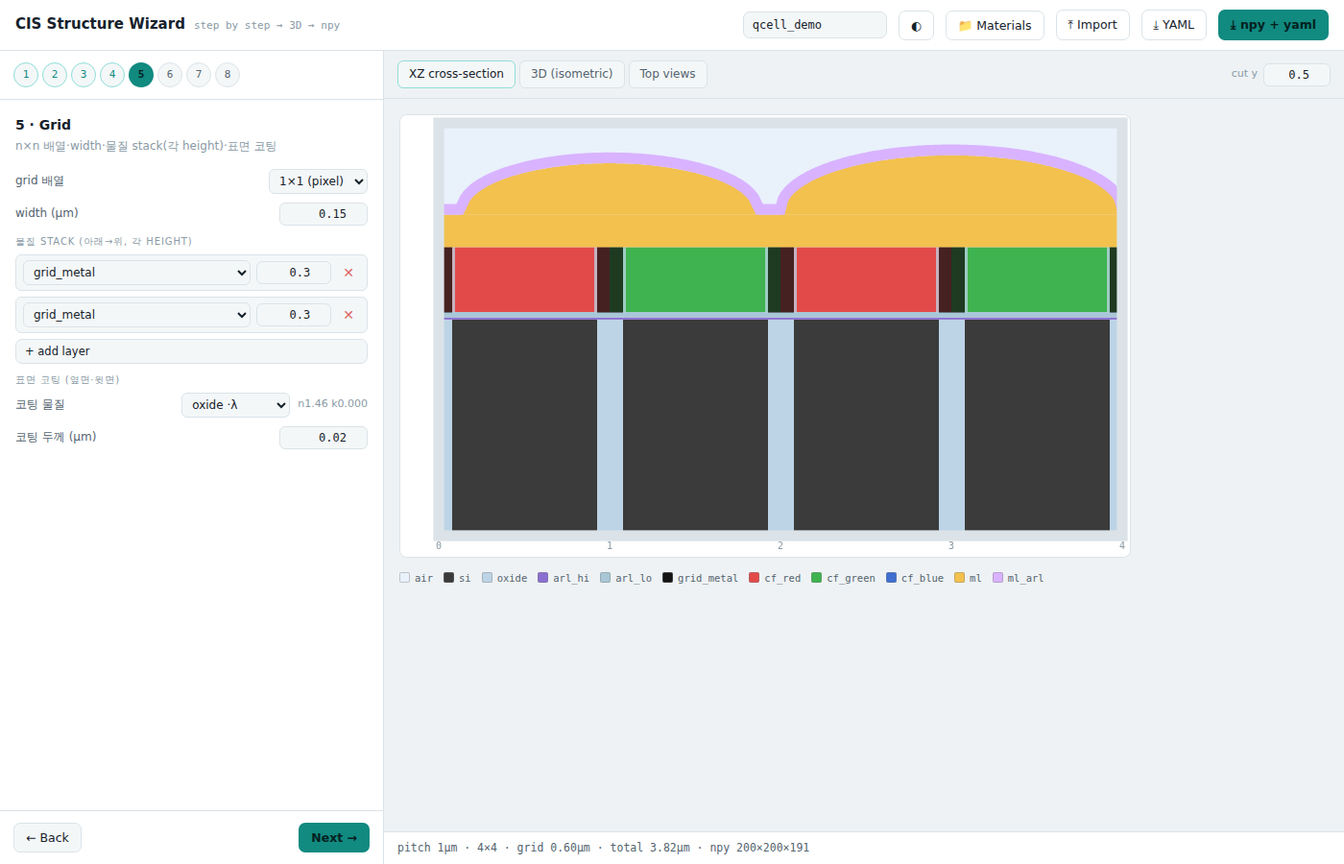
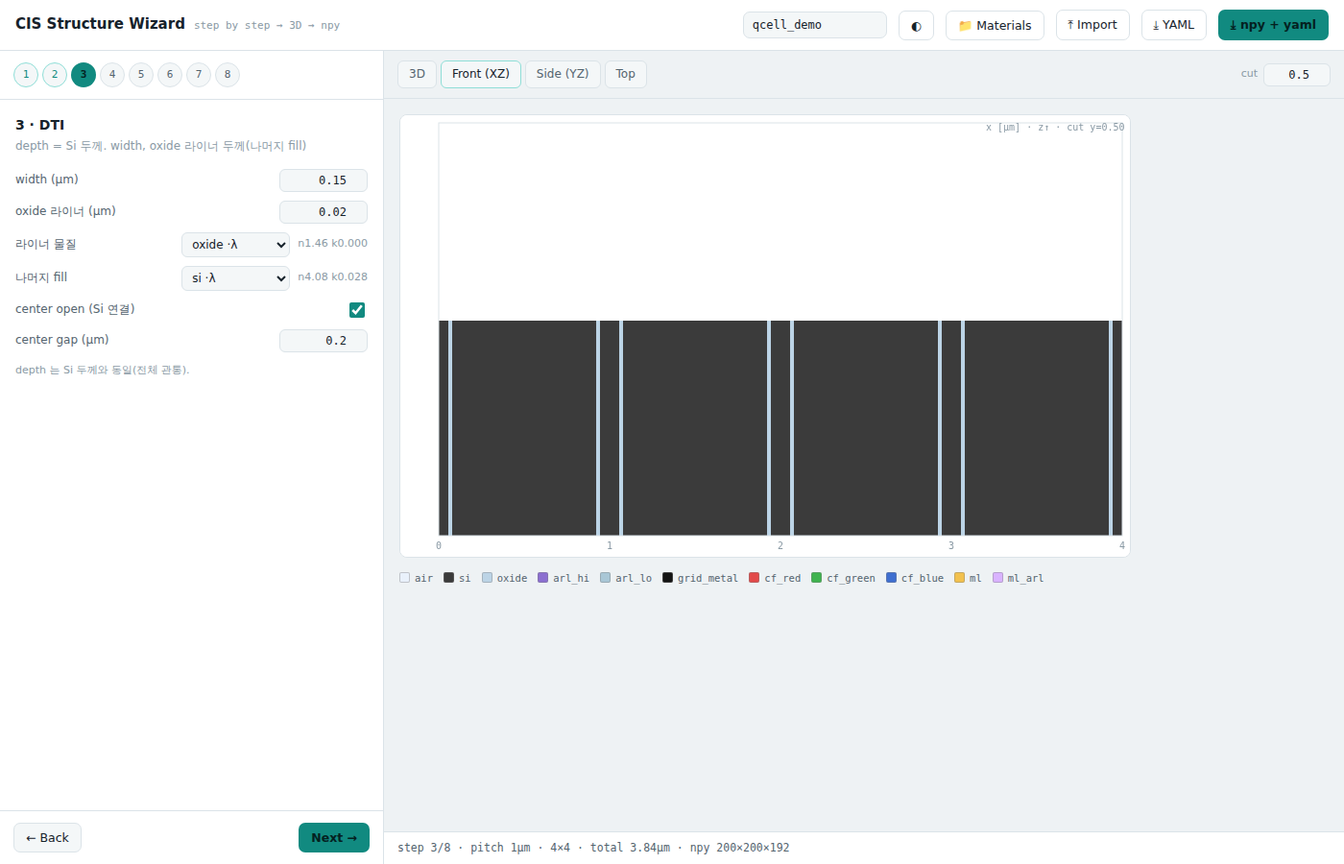
Wizard fixes: debounce typing, step-progressive 3D/front/side/top, DTI liner, grid coat toggle(side+top), CF planarization, open ML editor directly
- #1 renderViews 를 rAF 디바운스 -> 타이핑 렉 제거.
- #2 3D/Front(XZ)/Side(YZ)/Top 뷰, 현재 step 까지 쌓인 층만 표시(matAt upto).
- #3 DTI oxide 라이너 가시화(fill 기본 si) + 3뷰 반영, ol<=width/2 clamp.
- #4 grid 코팅 on/off 체크박스, 표면=옆면+윗면(gridAt zabs).
- #5 CF 컬러별 두께 상이 시 delta 를 ML 물질로 평탄화 채움.
- #6 ml_shapes.json import 대신 ML shape editor 새 창 열기 + Export 시
  postMessage 로 위저드에 자동 반영.

Claude-Session: https://claude.ai/code/session_01TWsubYhc5KeSwgcdPsEJZM

diff --git a/cis_rcwa/editors/structure_wizard.html b/cis_rcwa/editors/structure_wizard.html
@@ -76,11 +76,12 @@
   </aside>
   <div class="stage">
     <div class="viewtabs">
-      <span class="vtab on" data-v="xz">XZ cross-section</span>
-      <span class="vtab" data-v="iso">3D (isometric)</span>
-      <span class="vtab" data-v="top">Top views</span>
+      <span class="vtab on" data-v="iso">3D</span>
+      <span class="vtab" data-v="front">Front (XZ)</span>
+      <span class="vtab" data-v="side">Side (YZ)</span>
+      <span class="vtab" data-v="top">Top</span>
       <div class="spacer"></div>
-      <label class="hint" style="display:flex;gap:6px;align-items:center">cut y <input type="number" id="cutY" step="0.05" value="0.5" style="width:70px"></label>
+      <label class="hint" style="display:flex;gap:6px;align-items:center">cut <input type="number" id="cutY" step="0.05" value="0.5" style="width:70px"></label>
     </div>
     <div class="viewwrap" id="viewWrap"></div>
     <div class="statusbar" id="status"></div>
@@ -103,16 +104,16 @@ const DEFAULT = {
     grid_metal:{n:0.4,k:3.4}, cf_red:{n:1.65,k:0.02}, cf_green:{n:1.65,k:0.02}, cf_blue:{n:1.65,k:0.02}, ml:{n:1.6,k:0}, ml_arl:{n:1.25,k:0} },
   stack:{
     si:{ material:"si", thickness_um:2.0 },
-    dti:{ width_um:0.15, oxide_liner_um:0.02, liner:"oxide", fill:"oxide", center_open:true, center_gap_um:0.20 },  // depth = si.thickness
+    dti:{ width_um:0.15, oxide_liner_um:0.02, liner:"oxide", fill:"si", center_open:true, center_gap_um:0.20 },  // depth = si.thickness
     barl:[ {material:"arl_hi",thickness_um:0.02}, {material:"arl_lo",thickness_um:0.05} ],
-    grid:{ pitch:1, width_um:0.15, coat_material:"oxide", coat_um:0.02, stack:[ {material:"grid_metal",height_um:0.30}, {material:"grid_metal",height_um:0.30} ] },
+    grid:{ pitch:1, width_um:0.15, coat_on:true, coat_material:"oxide", coat_um:0.02, stack:[ {material:"grid_metal",height_um:0.30}, {material:"grid_metal",height_um:0.30} ] },
     cf:{ R:{material:"cf_red",thickness_um:0.60}, G:{material:"cf_green",thickness_um:0.60}, B:{material:"cf_blue",thickness_um:0.60} },
     ml:{ material:"ml", planar_um:0.30, sag_height_um:0.55,
          quads:[[{shape:"2x2"},{shape:"2x1",orient:"h"}],[{shape:"2x1",orient:"v"},{shape:"1x1"}]], deformations:{} },
     arl_top:{ material:"ml_arl", thickness_um:0.10 },
   }
 };
-let refLambda=0.55, folderLib={}, curStep=0, viewMode="xz";
+let refLambda=0.55, folderLib={}, curStep=0, viewMode="iso";
 let S=(function(){ try{const j=localStorage.getItem("cis_wizard_v1"); if(j){const d=JSON.parse(j);
   if(d.refLambda)refLambda=d.refLambda; if(d.folderLib)folderLib=d.folderLib; if(d.S)return d.S;} }catch(e){} return structuredClone(DEFAULT); })();
 function save(){ try{localStorage.setItem("cis_wizard_v1",JSON.stringify({S,refLambda,folderLib}));}catch(e){} }
@@ -131,19 +132,23 @@ function css(v){return getComputedStyle(document.documentElement).getPropertyVal
 // ============================ 구조 지오메트리 (xy 패턴 함수) ============================
 const P=()=>+S.grid.pixel_pitch_um, NP=()=>+S.grid.n_pixels;
 function gridStackH(){ return S.stack.grid.stack.reduce((a,s)=>a+ +s.height_um,0); }
+function gridCoat(){ const g=S.stack.grid; return (g.coat_on!==false)?+(g.coat_um||0):0; }
+function gridTotalH(){ return gridStackH()+gridCoat(); }   // 코팅 top cap 포함
 function cfMaxH(){ return Math.max(S.stack.cf.R.thickness_um,S.stack.cf.G.thickness_um,S.stack.cf.B.thickness_um); }
 function colorRole(c){ return {R:"cf_red",G:"cf_green",B:"cf_blue"}[c]; }
-function bandH(){ return Math.max(cfMaxH(), gridStackH()); }
-// DTI: 물질명|null(Si)  (center 안 뚫음=Si, 트렌치=oxide 라이너 + fill)
-function dtiAt(x,y){ const p=P(),st=S.stack.dti,ol=+st.oxide_liner_um,W=+st.width_um,ox=st.liner||"oxide",fl=st.fill||"oxide";
+function bandH(){ return Math.max(cfMaxH(), gridTotalH()); }
+// DTI: 물질명|null(Si)  (center 안 뚫음=Si, 트렌치=oxide 라이너 + fill). ol <= W/2
+function dtiAt(x,y){ const p=P(),st=S.stack.dti,W=+st.width_um,ol=Math.min(+st.oxide_liner_um,W/2),ox=st.liner||"oxide",fl=st.fill||"si";
   if(st.center_open){ const gh=(+st.center_gap_um||0)/2; const od=v=>{const i=Math.round(v/p);return(i%2!==0)?i:(v>i*p?i+1:i-1);};
     if(Math.abs(x-od(x)*p)<gh && Math.abs(y-od(y)*p)<gh) return null; }
   const d=Math.min(Math.abs(x-Math.round(x/p)*p),Math.abs(y-Math.round(y/p)*p));
   if(d>=W/2) return null; return (d>W/2-ol)?ox:fl; }   // 사이드월 라이너 / 나머지 fill
-// Grid: (x,zf 0..1) -> 물질명|null(CF)
-function gridAt(x,zf){ const g=S.stack.grid,p=P(),per=(g.pitch||1)*p,W=+g.width_um,cw=+(g.coat_um||0);
-  const d=Math.abs(x-Math.round(x/per)*per); if(d>W/2+cw)return null; if(d>W/2)return g.coat_material||"oxide";
-  const H=gridStackH(); let zz=zf*H,acc=0; for(const s of g.stack){acc+=+s.height_um; if(zz<=acc+1e-9)return s.material;} return g.stack.length?g.stack[g.stack.length-1].material:"grid_metal"; }
+// Grid: (x, zabs[um 0..gridTotalH]) -> 물질명|null(CF). 코팅=옆면+윗면 표면
+function gridAt(x,zabs){ const g=S.stack.grid,p=P(),per=(g.pitch||1)*p,W=+g.width_um,cw=gridCoat(),H=gridStackH();
+  const d=Math.abs(x-Math.round(x/per)*per);
+  if(d>W/2+cw || zabs>H+cw) return null;
+  if(cw>0 && (d>W/2 || zabs>H)) return g.coat_material||"oxide";   // 표면 코팅 (옆+위)
+  let acc=0; for(const s of g.stack){acc+=+s.height_um; if(zabs<=acc+1e-9)return s.material;} return g.stack.length?g.stack[g.stack.length-1].material:"grid_metal"; }
 // ML sag(x,y)
 function mlSag(x,y){ const p=P(),h=+S.stack.ml.sag_height_um,q=S.stack.ml.quads,def=S.stack.ml.deformations||{}; let sag=0;
   function bt(id,ang){ const b=def[id]&&def[id].b_theta; if(!b)return 1; const n=b.length; let a=((ang%(2*Math.PI))+2*Math.PI)%(2*Math.PI); let f=a/(2*Math.PI)*n,i0=Math.floor(f)%n,t=f-Math.floor(f); return b[i0]*(1-t)+b[(i0+1)%n]*t; }
@@ -156,33 +161,31 @@ function mlSag(x,y){ const p=P(),h=+S.stack.ml.sag_height_um,q=S.stack.ml.quads,
 function totalH(){ const s=S.stack; return +s.si.thickness_um + s.barl.reduce((a,l)=>a+ +l.thickness_um,0) + bandH() + +s.ml.planar_um + +s.ml.sag_height_um + +s.arl_top.thickness_um + +S.grid.air_margin_um; }
 
 // ============================ npy voxel 빌드 ============================
+// 임의 점 (x,y,zc[um]) 의 물질 — upto: 표시할 최대 단계(=curStep, 99=전체)
+function matAt(x,y,zc,upto){ if(upto==null)upto=99; const s=S.stack,p=P(),np=NP();
+  const zSi=+s.si.thickness_um, barlH=s.barl.reduce((a,l)=>a+ +l.thickness_um,0), band=bandH();
+  const barlTop=zSi+barlH, cfTop=barlTop+band, planarTop=cfTop+ +s.ml.planar_um;
+  if(zc<zSi){ if(upto<1)return "air"; if(upto<2)return s.si.material; const m=dtiAt(x,y); return m||s.si.material; }
+  if(zc<barlTop){ if(upto<3)return "air"; let zz=zc-zSi,acc=0; for(const l of s.barl){acc+=+l.thickness_um; if(zz<=acc)return l.material;} return s.barl.length?s.barl[s.barl.length-1].material:"air"; }
+  if(zc<cfTop){ const zabs=zc-barlTop;
+    const gm=(upto>=4)?gridAt(x,y,zabs):null; if(gm)return gm;
+    if(upto>=5){ const pr=Math.min(np-1,Math.floor(y/p)),pc=Math.min(np-1,Math.floor(x/p)),col=colorRole(S.bayer[pr][pc]);
+      const cth=s.cf[{cf_red:"R",cf_green:"G",cf_blue:"B"}[col]].thickness_um; if(zabs<=cth)return col; }
+    if(upto>=6)return s.ml.material;    // 평탄화: CF 위 delta 를 ML 물질로 채움
+    return "air"; }
+  if(zc<planarTop){ return upto>=6? s.ml.material : "air"; }
+  if(upto<6)return "air"; const surf=planarTop+mlSag(x,y); if(zc<=surf)return s.ml.material;
+  if(upto>=7){ const arlT=+s.arl_top.thickness_um; if(zc<=surf+arlT)return s.arl_top.material; }
+  return "air"; }
+
 function buildVoxels(){
-  const p=P(),np=NP(),span=p*np,dxy=+S.grid.dxy_um,dz=+S.grid.dz_um,s=S.stack;
-  const nx=Math.round(span/dxy),ny=Math.round(span/dxy);
-  const barlH=s.barl.reduce((a,l)=>a+ +l.thickness_um,0), band=bandH();
-  const Ht=totalH(), nz=Math.round(Ht/dz);
-  // 물질 id 맵
+  const p=P(),np=NP(),span=p*np,dxy=+S.grid.dxy_um,dz=+S.grid.dz_um;
+  const nx=Math.round(span/dxy),ny=Math.round(span/dxy),nz=Math.round(totalH()/dz);
   const names=["air"]; const idOf=n=>{ let i=names.indexOf(n); if(i<0){i=names.length;names.push(n);} return i; };
-  const data=new Uint8Array(nz*ny*nx);   // z-major: [z][y][x]
-  const idx=(z,y,x)=>(z*ny+y)*nx+x;
-  // z 밴드 경계(아래->위)
-  const zSi=+s.si.thickness_um;
-  const barlTop=zSi+barlH, cfTop=barlTop+band, planarTop=cfTop+ +s.ml.planar_um, mlTop=planarTop+ +s.ml.sag_height_um;
-  const cfRowMat=(r,c)=>colorRole(S.bayer[r][c]);
-  const airId=idOf("air");
+  const data=new Uint8Array(nz*ny*nx); const idx=(z,y,x)=>(z*ny+y)*nx+x;
   for(let zi=0;zi<nz;zi++){ const zc=(zi+0.5)*dz;
     for(let yi=0;yi<ny;yi++){ const y=(yi+0.5)*dxy;
-      for(let xi=0;xi<nx;xi++){ const x=(xi+0.5)*dxy; let mat="air";
-        if(zc<zSi){ const m=dtiAt(x,y); mat = m? m : s.si.material; }              // Si + DTI(full depth)
-        else if(zc<barlTop){ let zz=zc-zSi,acc=0; mat=s.barl[0]?s.barl[0].material:"oxide"; for(const l of s.barl){acc+=+l.thickness_um; if(zz<=acc){mat=l.material;break;}} }
-        else if(zc<cfTop){ const zf=(zc-barlTop); const pr=Math.min(np-1,Math.floor(y/p)),pc=Math.min(np-1,Math.floor(x/p));
-            const gm=gridAt(x, zf/gridStackH()); if(gm && zf<=gridStackH()+ (S.stack.grid.coat_um||0)) mat=gm;
-            else { const col=cfRowMat(pr,pc), cth=S.stack.cf[{cf_red:"R",cf_green:"G",cf_blue:"B"}[col]].thickness_um; mat = (zf<=cth)? col : "air"; } }
-        else if(zc<planarTop){ mat=s.ml.material; }                                 // ML planar
-        else { const surf=planarTop + mlSag(x,y); const arlT=+s.arl_top.thickness_um;
-            if(zc<=surf) mat=s.ml.material; else if(zc<=surf+arlT) mat=s.arl_top.material; else mat="air"; }
-        data[idx(zi,yi,xi)]=idOf(mat);
-      } } }
+      for(let xi=0;xi<nx;xi++){ data[idx(zi,yi,xi)]=idOf(matAt((xi+0.5)*dxy,y,zc,99)); } } }
   return {data,shape:[nz,ny,nx],names,dxy,dz};
 }
 function npyU8(arr,shape){ const hdr=`{'descr': '|u1', 'fortran_order': False, 'shape': (${shape.join(', ')}), }`;
@@ -192,52 +195,41 @@ function npyU8(arr,shape){ const hdr=`{'descr': '|u1', 'fortran_order': False, '
 
 // ============================ 렌더 ============================
 function el(id){return document.getElementById(id);}
-function renderViews(){
-  const w=el("viewWrap"); w.innerHTML="";
-  if(viewMode==="xz"){ const c=mkCanvas(760,460); w.appendChild(c.wrap); drawXZ(c.cv);
+let _raf=null;
+function renderViews(){ if(_raf)cancelAnimationFrame(_raf); _raf=requestAnimationFrame(_renderViews); }  // 디바운스(타이핑 렉 방지)
+function _renderViews(){ _raf=null;
+  const w=el("viewWrap"); w.innerHTML=""; w.style.flexDirection="column"; w.style.flexWrap="nowrap";
+  if(viewMode==="front"||viewMode==="side"){ const c=mkCanvas(760,460); w.appendChild(c.wrap); drawSection(c.cv, viewMode==="front"?"x":"y");
     const lg=document.createElement("div"); lg.className="legend"; usedMats().forEach(n=>{const s=document.createElement("span"); s.innerHTML=`<i style="background:${matColor(n)}"></i>${n}`; lg.appendChild(s);}); w.appendChild(lg); }
   else if(viewMode==="iso"){ const c=mkCanvas(760,520); w.appendChild(c.wrap); drawISO(c.cv); }
-  else { ["DTI","CF+Grid","ML"].forEach((t,i)=>{ const box=document.createElement("div"); const cap=document.createElement("div"); cap.className="hint"; cap.textContent=t; const c=mkCanvas(240,240); box.appendChild(cap); box.appendChild(c.wrap); w.appendChild(box); drawTop(c.cv,i); }); w.style.flexDirection="row"; w.style.flexWrap="wrap"; }
-  if(viewMode!=="top") w.style.flexDirection="column";
-  el("status").innerHTML=`pitch ${P()}µm · ${NP()}×${NP()} · grid ${gridStackH().toFixed(2)}µm · total ${totalH().toFixed(2)}µm · npy ${Math.round(P()*NP()/S.grid.dxy_um)}×${Math.round(P()*NP()/S.grid.dxy_um)}×${Math.round(totalH()/S.grid.dz_um)}`;
+  else { w.style.flexDirection="row"; w.style.flexWrap="wrap"; ["DTI","CF+Grid","ML"].forEach((t,i)=>{ const box=document.createElement("div"); const cap=document.createElement("div"); cap.className="hint"; cap.textContent=t; const c=mkCanvas(240,240); box.appendChild(cap); box.appendChild(c.wrap); w.appendChild(box); drawTop(c.cv,i); }); }
+  const nx=Math.round(P()*NP()/S.grid.dxy_um);
+  el("status").innerHTML=`step ${curStep+1}/8 · pitch ${P()}µm · ${NP()}×${NP()} · total ${totalH().toFixed(2)}µm · npy ${nx}×${nx}×${Math.round(totalH()/S.grid.dz_um)}`;
   save();
 }
 function mkCanvas(w,h){ const wrap=document.createElement("div"); const cv=document.createElement("canvas"); cv.width=w; cv.height=h; wrap.appendChild(cv); return {wrap,cv}; }
 function usedMats(){ const u=new Set(["air",S.stack.si.material,S.stack.dti.liner,S.stack.dti.fill]); S.stack.barl.forEach(l=>u.add(l.material)); u.add(S.stack.grid.coat_material); S.stack.grid.stack.forEach(l=>u.add(l.material)); ["R","G","B"].forEach(c=>u.add(S.stack.cf[c].material)); u.add(S.stack.ml.material); u.add(S.stack.arl_top.material); return [...u]; }
 
-function drawXZ(cv){ const ctx=cv.getContext("2d"),W=cv.width,H=cv.height; ctx.clearRect(0,0,W,H); ctx.fillStyle=css("--panel"); ctx.fillRect(0,0,W,H);
-  const p=P(),np=NP(),span=p*np,s=S.stack; const Ht=totalH(); const padL=40,padB=22,padT=8,padR=8;
-  const sx=(W-padL-padR)/span, sz=(H-padB-padT)/Ht; const X=x=>padL+x*sx, Z=z=>H-padB-z*sz; const cutY=+el("cutY").value;
-  function rect(x0,x1,z0,z1,col){ctx.fillStyle=col; ctx.fillRect(X(x0),Z(z1),(x1-x0)*sx,(z1-z0)*sz);}
-  rect(0,span,0,Ht,matColor("air"));
-  let z=0; const zSi=+s.si.thickness_um;
-  // Si + DTI(full depth) rasterize
-  rect(0,span,0,zSi,matColor(s.si.material));
-  { const wpx=Math.round(W-padL-padR); for(let px=0;px<wpx;px++){ const x=px/sx; const m=dtiAt(x,cutY); if(!m)continue; ctx.fillStyle=matColor(m); ctx.fillRect(padL+px,Z(zSi),1,zSi*sz);} }
-  z=zSi;
-  for(const l of s.barl){ rect(0,span,z,z+ +l.thickness_um,matColor(l.material)); z+=+l.thickness_um; }
-  // CF + grid
-  const band=bandH(), row=Math.max(0,Math.min(np-1,Math.floor(cutY/p)));
-  for(let c=0;c<np;c++){ const col=S.bayer[row][c],role=colorRole(col),cth=s.cf[{cf_red:"R",cf_green:"G",cf_blue:"B"}[role]].thickness_um; rect(c*p,(c+1)*p,z,z+cth,matColor(role)); }
-  { const gt=gridStackH(),wpx=Math.round(W-padL-padR),hpx=Math.max(1,Math.round(gt*sz)); for(let px=0;px<wpx;px++){ const x=px/sx; for(let pz=0;pz<hpx;pz++){ const zf=1-(pz+0.5)/hpx; const m=gridAt(x,zf); if(!m)continue; ctx.fillStyle=matColor(m); ctx.fillRect(padL+px,Z(z+gt)+pz,1,1);} } }
-  z+=band;
-  rect(0,span,z,z+ +s.ml.planar_um,matColor(s.ml.material)); const planarTop=z+ +s.ml.planar_um; z=planarTop;
-  // ML dome
-  ctx.fillStyle=matColor(s.ml.material); ctx.beginPath(); const N=260;
-  for(let i=0;i<=N;i++){ const x=span*i/N,top=planarTop+mlSag(x,cutY); i?ctx.lineTo(X(x),Z(top)):ctx.moveTo(X(x),Z(planarTop)); } ctx.lineTo(X(span),Z(planarTop)); ctx.closePath(); ctx.fill();
-  // ARL top conformal
-  ctx.strokeStyle=matColor(s.arl_top.material); ctx.lineWidth=Math.max(1,+s.arl_top.thickness_um*sz); ctx.beginPath();
-  for(let i=0;i<=N;i++){ const x=span*i/N,top=planarTop+mlSag(x,cutY)+ +s.arl_top.thickness_um/2; i?ctx.lineTo(X(x),Z(top)):ctx.moveTo(X(x),Z(top)); } ctx.stroke();
+// 단면 (axis 'x'=front XZ / 'y'=side YZ). matAt 를 rasterize, curStep 까지만.
+function drawSection(cv, axis){ const ctx=cv.getContext("2d"),W=cv.width,H=cv.height; ctx.clearRect(0,0,W,H); ctx.fillStyle=css("--panel"); ctx.fillRect(0,0,W,H);
+  const p=P(),span=p*NP(),Ht=totalH(),padL=40,padB=22,padT=8,padR=8;
+  const sx=(W-padL-padR)/span, sz=(H-padB-padT)/Ht, cut=+el("cutY").value, B=2;   // 2px 블록(성능)
+  const wpx=W-padL-padR, hpx=H-padB-padT;
+  for(let px=0;px<wpx;px+=B){ const u=(px+B/2)/sx;
+    for(let pz=0;pz<hpx;pz+=B){ const zc=(hpx-(pz+B/2))/sz; const x=axis==="x"?u:cut, y=axis==="x"?cut:u;
+      const m=matAt(x,y,zc,curStep); if(m==="air")continue; ctx.fillStyle=matColor(m); ctx.fillRect(padL+px,padT+pz,B,B); } }
   ctx.strokeStyle=css("--line"); ctx.strokeRect(padL,padT,W-padL-padR,H-padB-padT);
-  ctx.fillStyle=css("--ink-faint"); ctx.font="10px "+css("--mono"); for(let x=0;x<=span+1e-6;x+=p)ctx.fillText(x.toFixed(0),X(x)-3,H-8);
+  ctx.fillStyle=css("--ink-faint"); ctx.font="10px "+css("--mono"); for(let t=0;t<=span+1e-6;t+=p)ctx.fillText(t.toFixed(0),padL+t*sx-3,H-8);
+  ctx.fillText((axis==="x"?"x":"y")+" [µm] · z↑ · cut "+(axis==="x"?"y":"x")+"="+cut.toFixed(2),W-150,16);
 }
 function drawTop(cv,which){ const ctx=cv.getContext("2d"),W=cv.width,H=cv.height,p=P(),np=NP(),span=p*np,pad=8; ctx.clearRect(0,0,W,H);
   const sc=Math.min(W-2*pad,H-2*pad)/span,ox=(W-span*sc)/2,oy=(H-span*sc)/2; const X=x=>ox+x*sc,Y=y=>H-oy-y*sc;
+  const need=[2,4,6][which]; if(curStep<need){ ctx.fillStyle=css("--ink-faint"); ctx.font="11px "+css("--mono"); ctx.fillText("(step "+(need+1)+"+)",ox+8,oy+18); ctx.strokeStyle=css("--line"); ctx.strokeRect(ox,oy,span*sc,span*sc); return; }
   if(which===0){ ctx.fillStyle=matColor(S.stack.si.material); ctx.fillRect(ox,oy,span*sc,span*sc); const N=Math.round(span*sc);
     for(let py=0;py<N;py++)for(let px=0;px<N;px++){ const m=dtiAt(px/sc,(N-1-py)/sc); if(!m)continue; ctx.fillStyle=matColor(m); ctx.fillRect(ox+px,oy+py,1,1);} }
   else if(which===1){ for(let r=0;r<np;r++)for(let c=0;c<np;c++){ctx.fillStyle=matColor(colorRole(S.bayer[r][c])); ctx.fillRect(X(c*p)+1,Y((r+1)*p)+1,p*sc-2,p*sc-2);}
-    const g=S.stack.grid,per=(g.pitch||1)*p,wm=+g.width_um,cw=+(g.coat_um||0),w=wm+2*cw,gm=g.stack[0]?g.stack[0].material:"grid_metal";
-    for(let cc=0;cc<=span+1e-6;cc+=per){ ctx.fillStyle=matColor(g.coat_material||"oxide"); ctx.fillRect(X(cc-w/2),oy,w*sc,span*sc); ctx.fillRect(ox,Y(cc+w/2),span*sc,w*sc); ctx.fillStyle=matColor(gm); ctx.fillRect(X(cc-wm/2),oy,wm*sc,span*sc); ctx.fillRect(ox,Y(cc+wm/2),span*sc,wm*sc);} }
+    const g=S.stack.grid,per=(g.pitch||1)*p,wm=+g.width_um,cw=gridCoat(),w=wm+2*cw,gm=g.stack[0]?g.stack[0].material:"grid_metal";
+    for(let cc=0;cc<=span+1e-6;cc+=per){ if(cw>0){ctx.fillStyle=matColor(g.coat_material||"oxide"); ctx.fillRect(X(cc-w/2),oy,w*sc,span*sc); ctx.fillRect(ox,Y(cc+w/2),span*sc,w*sc);} ctx.fillStyle=matColor(gm); ctx.fillRect(X(cc-wm/2),oy,wm*sc,span*sc); ctx.fillRect(ox,Y(cc+wm/2),span*sc,wm*sc);} }
   else { const N=90,h=+S.stack.ml.sag_height_um; for(let i=0;i<N;i++)for(let j=0;j<N;j++){ const sg=mlSag(span*(i+.5)/N,span*(j+.5)/N); if(sg<=0)continue; ctx.fillStyle=`rgba(242,193,78,${0.15+0.85*sg/h})`; ctx.fillRect(X(span*i/N),Y(span*(j+1)/N),span/N*sc+1,span/N*sc+1);} }
   ctx.strokeStyle=css("--line"); ctx.strokeRect(ox,oy,span*sc,span*sc);
 }
@@ -248,13 +240,13 @@ function drawISO(cv){ const ctx=cv.getContext("2d"),W=cv.width,H=cv.height; ctx.
   const ax=0.55, ay=0.30;   // iso axes
   const cx=W*0.36, cy=H*0.62;
   function proj(x,y,z){ return [cx + (x-y)*sc*ax + 0, cy + (x+y)*sc*ay - z*ez]; }
-  // 층 리스트 (아래->위): [z0,z1, topPatternFn|color, sideColor]
+  // 층 리스트 (아래->위) — 현재 step 까지만
   const layers=[];
-  layers.push([0,+s.si.thickness_um,"dti",matColor(s.si.material)]);
-  let z=+s.si.thickness_um; s.barl.forEach(l=>{layers.push([z,z+ +l.thickness_um,matColor(l.material),matColor(l.material)]); z+=+l.thickness_um;});
-  const band=bandH(); layers.push([z,z+band,"cf",matColor("cf_green")]); z+=band;
-  layers.push([z,z+ +s.ml.planar_um,matColor(s.ml.material),matColor(s.ml.material)]); z+=+s.ml.planar_um;
-  layers.push([z,z+ +s.ml.sag_height_um,"ml",matColor(s.ml.material)]);
+  if(curStep>=1) layers.push([0,+s.si.thickness_um,"dti",matColor(s.si.material)]);
+  let z=+s.si.thickness_um; if(curStep>=3) s.barl.forEach(l=>{layers.push([z,z+ +l.thickness_um,matColor(l.material),matColor(l.material)]); z+=+l.thickness_um;}); else z+=s.barl.reduce((a,l)=>a+ +l.thickness_um,0);
+  const band=bandH(); if(curStep>=4){ layers.push([z,z+band,"cf",matColor("cf_green")]); } z+=band;
+  if(curStep>=6){ layers.push([z,z+ +s.ml.planar_um,matColor(s.ml.material),matColor(s.ml.material)]); z+=+s.ml.planar_um;
+    layers.push([z,z+ +s.ml.sag_height_um,"ml",matColor(s.ml.material)]); }
   function box(z0,z1,topFn,side){ const c=[[0,0],[span,0],[span,span],[0,span]];
     // 옆면 2개
     function quad(pa,pb,shade){ ctx.beginPath(); ctx.moveTo(...proj(pa[0],pa[1],z0)); ctx.lineTo(...proj(pb[0],pb[1],z0)); ctx.lineTo(...proj(pb[0],pb[1],z1)); ctx.lineTo(...proj(pa[0],pa[1],z1)); ctx.closePath(); ctx.fillStyle=shade; ctx.fill(); ctx.strokeStyle="rgba(0,0,0,.25)"; ctx.stroke(); }
@@ -298,17 +290,20 @@ const STEPS=[
       h("div",{class:"row"},[h("label",{},["center open (Si 연결)"]),co]), numRow("center gap (µm)",d,"center_gap_um"), h("p",{class:"hint"},["depth 는 Si 두께와 동일(전체 관통)."]) ]; }},
  {t:"4 · BARL stack", d:"전면 다층 AR (개수·물질·두께)", body:()=>[ h("p",{class:"hint"},["아래→위 순서. 각 층 물질(폴더 연동)·두께."]), subEditor(S.stack.barl,[["material","material","mat"],["thickness","thickness_um","num"]]) ]},
  {t:"5 · Grid", d:"n×n 배열·width·물질 stack(각 height)·표면 코팅", body:()=>{ const g=S.stack.grid; const pt=h("select",{}); [["1","1×1 (pixel)"],["2","2×2 (quad)"]].forEach(([v,tx])=>{const o=h("option",{value:v},[tx]); if(String(g.pitch||1)===v)o.selected=true; pt.appendChild(o);}); pt.onchange=()=>{g.pitch=parseInt(pt.value); renderViews();};
-    return [ h("div",{class:"row"},[h("label",{},["grid 배열"]),pt]), numRow("width (µm)",g,"width_um"),
-      h("div",{class:"seclbl"},["물질 stack (아래→위, 각 height)"]), subEditor(g.stack,[["material","material","mat"],["height","height_um","num"]]),
-      h("div",{class:"seclbl"},["표면 코팅 (옆면·윗면)"]), matRow("코팅 물질",g,"coat_material"), numRow("코팅 두께 (µm)",g,"coat_um") ]; }},
+    const cc=h("input",{type:"checkbox"}); cc.checked=g.coat_on!==false; cc.onchange=()=>{g.coat_on=cc.checked; renderStep();};
+    const rows=[ h("div",{class:"row"},[h("label",{},["grid 배열"]),pt]), numRow("width (µm)",g,"width_um"),
+      h("div",{class:"seclbl"},["물질 stack (아래→위, 각 height) · 동일물질 연결"]), subEditor(g.stack,[["material","material","mat"],["height","height_um","num"]]),
+      h("div",{class:"seclbl"},["표면 코팅 (옆면+윗면)"]), h("div",{class:"row"},[h("label",{},["코팅 사용"]),cc]) ];
+    if(g.coat_on!==false){ rows.push(matRow("코팅 물질",g,"coat_material")); rows.push(numRow("코팅 두께 (µm)",g,"coat_um")); }
+    return rows; }},
  {t:"6 · Color Filter", d:"각 컬러별 물질·두께", body:()=>[ h("div",{class:"seclbl"},["Red"]), matRow("R 물질",S.stack.cf.R,"material"), numRow("R 두께 (µm)",S.stack.cf.R,"thickness_um"),
     h("div",{class:"seclbl"},["Green"]), matRow("G 물질",S.stack.cf.G,"material"), numRow("G 두께 (µm)",S.stack.cf.G,"thickness_um"),
     h("div",{class:"seclbl"},["Blue"]), matRow("B 물질",S.stack.cf.B,"material"), numRow("B 두께 (µm)",S.stack.cf.B,"thickness_um") ]},
  {t:"7 · Microlens", d:"물질·평탄층 두께·ML 형상(shape editor 연동)", body:()=>{ const m=S.stack.ml;
-    const imp=h("button",{class:"btn mini",onclick:()=>document.getElementById("mlFile").click()},["⤒ Import ml_shapes.json"]);
+    const open=h("button",{class:"btn mini",onclick:openMLeditor},["🔷 Open ML shape editor"]);
     const nd=Object.keys(m.deformations||{}).length;
     return [ matRow("ML 물질",m,"material"), numRow("평탄층 두께 (µm)",m,"planar_um"), numRow("sag height (µm)",m,"sag_height_um"),
-      h("div",{class:"seclbl"},["ML 형상"]), h("p",{class:"hint"},["ML shape editor 에서 저장한 ml_shapes.json(quads+deformations) 불러오기. 현재 변형 렌즈: "+nd+"개"]), imp ]; }},
+      h("div",{class:"seclbl"},["ML 형상"]), h("p",{class:"hint"},["ML shape editor 를 새 창으로 열어 형상 편집 → Export 하면 자동 반영. 현재: quad 배치 + 변형 렌즈 "+nd+"개"]), open ]; }},
  {t:"8 · ARL top", d:"air→ML 사이 AR (물질·두께)", body:()=>[ matRow("ARL 물질",S.stack.arl_top,"material"), numRow("thickness (µm)",S.stack.arl_top,"thickness_um"),
     h("p",{class:"hint"},["여기까지가 구조 셋업. 우측에서 3D 확인 후 상단 '⤓ Generate .npy'."]) ]},
 ];
@@ -326,9 +321,13 @@ el("themeBtn").onclick=()=>{ const r=document.documentElement,cur=r.getAttribute
 el("matBtn").onclick=()=>el("matFolder").click();
 el("matFolder").onchange=async e=>{ let n=0; for(const f of [...e.target.files]){ if(!/\.txt$/i.test(f.name))continue; let t; try{t=await f.text();}catch(_){continue;} const nk=parseNK(t); if(!nk)continue; folderLib[f.name.replace(/\.txt$/i,"")]=nk; n++; }
   for(const role in S.materials){ if(!S.materials[role].src&&folderLib[role])S.materials[role].src=role; } e.target.value=""; renderStep(); alert(n+" 물질 n,k 로드됨"); };
-// ML shapes import
-const mlFileIn=h("input",{type:"file",id:"mlFile",accept:".json",style:"display:none"}); document.body.appendChild(mlFileIn);
-mlFileIn.onchange=async e=>{ const f=e.target.files[0]; if(!f)return; try{ const d=JSON.parse(await f.text()); if(d.quads)S.stack.ml.quads=d.quads; if(d.deformations)S.stack.ml.deformations=d.deformations; if(d.sag_height_um)S.stack.ml.sag_height_um=d.sag_height_um; renderStep(); alert("ML 형상 로드됨"); }catch(err){alert("JSON 오류: "+err.message);} e.target.value=""; };
+// ML shape editor 직접 열기 (새 창) + Export 시 postMessage 로 자동 반영
+let mlWin=null;
+function openMLeditor(){ try{ mlWin=window.open("ml_shape_editor.html","ml_editor","width=1280,height=820");
+    if(!mlWin) alert("팝업이 차단되었습니다. 팝업 허용 후 다시 시도하세요.");
+  }catch(e){ alert("ML editor 열기 실패: "+e.message); } }
+function applyMLshapes(d){ if(!d)return; if(d.quads)S.stack.ml.quads=d.quads; if(d.deformations)S.stack.ml.deformations=d.deformations||{}; if(d.sag_height_um)S.stack.ml.sag_height_um=d.sag_height_um; if(curStep===6)renderStep(); else renderViews(); }
+window.addEventListener("message",e=>{ const d=e.data; if(d&&d.schema==="cis_ml_shapes/1"){ applyMLshapes(d); } });
 
 const prod=el("prodName"); prod.value=S.product||""; prod.oninput=()=>{S.product=prod.value; save();};
 const dlg=el("dlg");

diff --git a/cis_rcwa/editors/ml_shape_editor.html b/cis_rcwa/editors/ml_shape_editor.html
@@ -628,10 +628,13 @@ function openDlg(title,hint,text){
   dlg.showModal();
 }
 document.getElementById("exportJson").addEventListener("click",()=>{
-  const text=JSON.stringify(buildExport(),null,2);
+  const exp=buildExport();
+  // 구조 위저드에서 열었으면 부모창으로 형상 전달 (파일 없이 자동 반영)
+  try{ if(window.opener && !window.opener.closed) window.opener.postMessage(exp,"*"); }catch(e){}
+  const text=JSON.stringify(exp,null,2);
   download("ml_shapes.json", text);
   openDlg("Export · ml_shapes.json",
-    "저장된 파일을 cis_rcwa/ 에 두고, qcell_config.yaml 의 microlens_layout.deform_file: \"ml_shapes.json\" 로 참조하세요.",
+    (window.opener?"구조 위저드로 형상 전달됨. ":"")+"저장된 파일은 deform_file 로도 사용 가능.",
     text);
 });
 document.getElementById("exportYaml").addEventListener("click",()=>{
